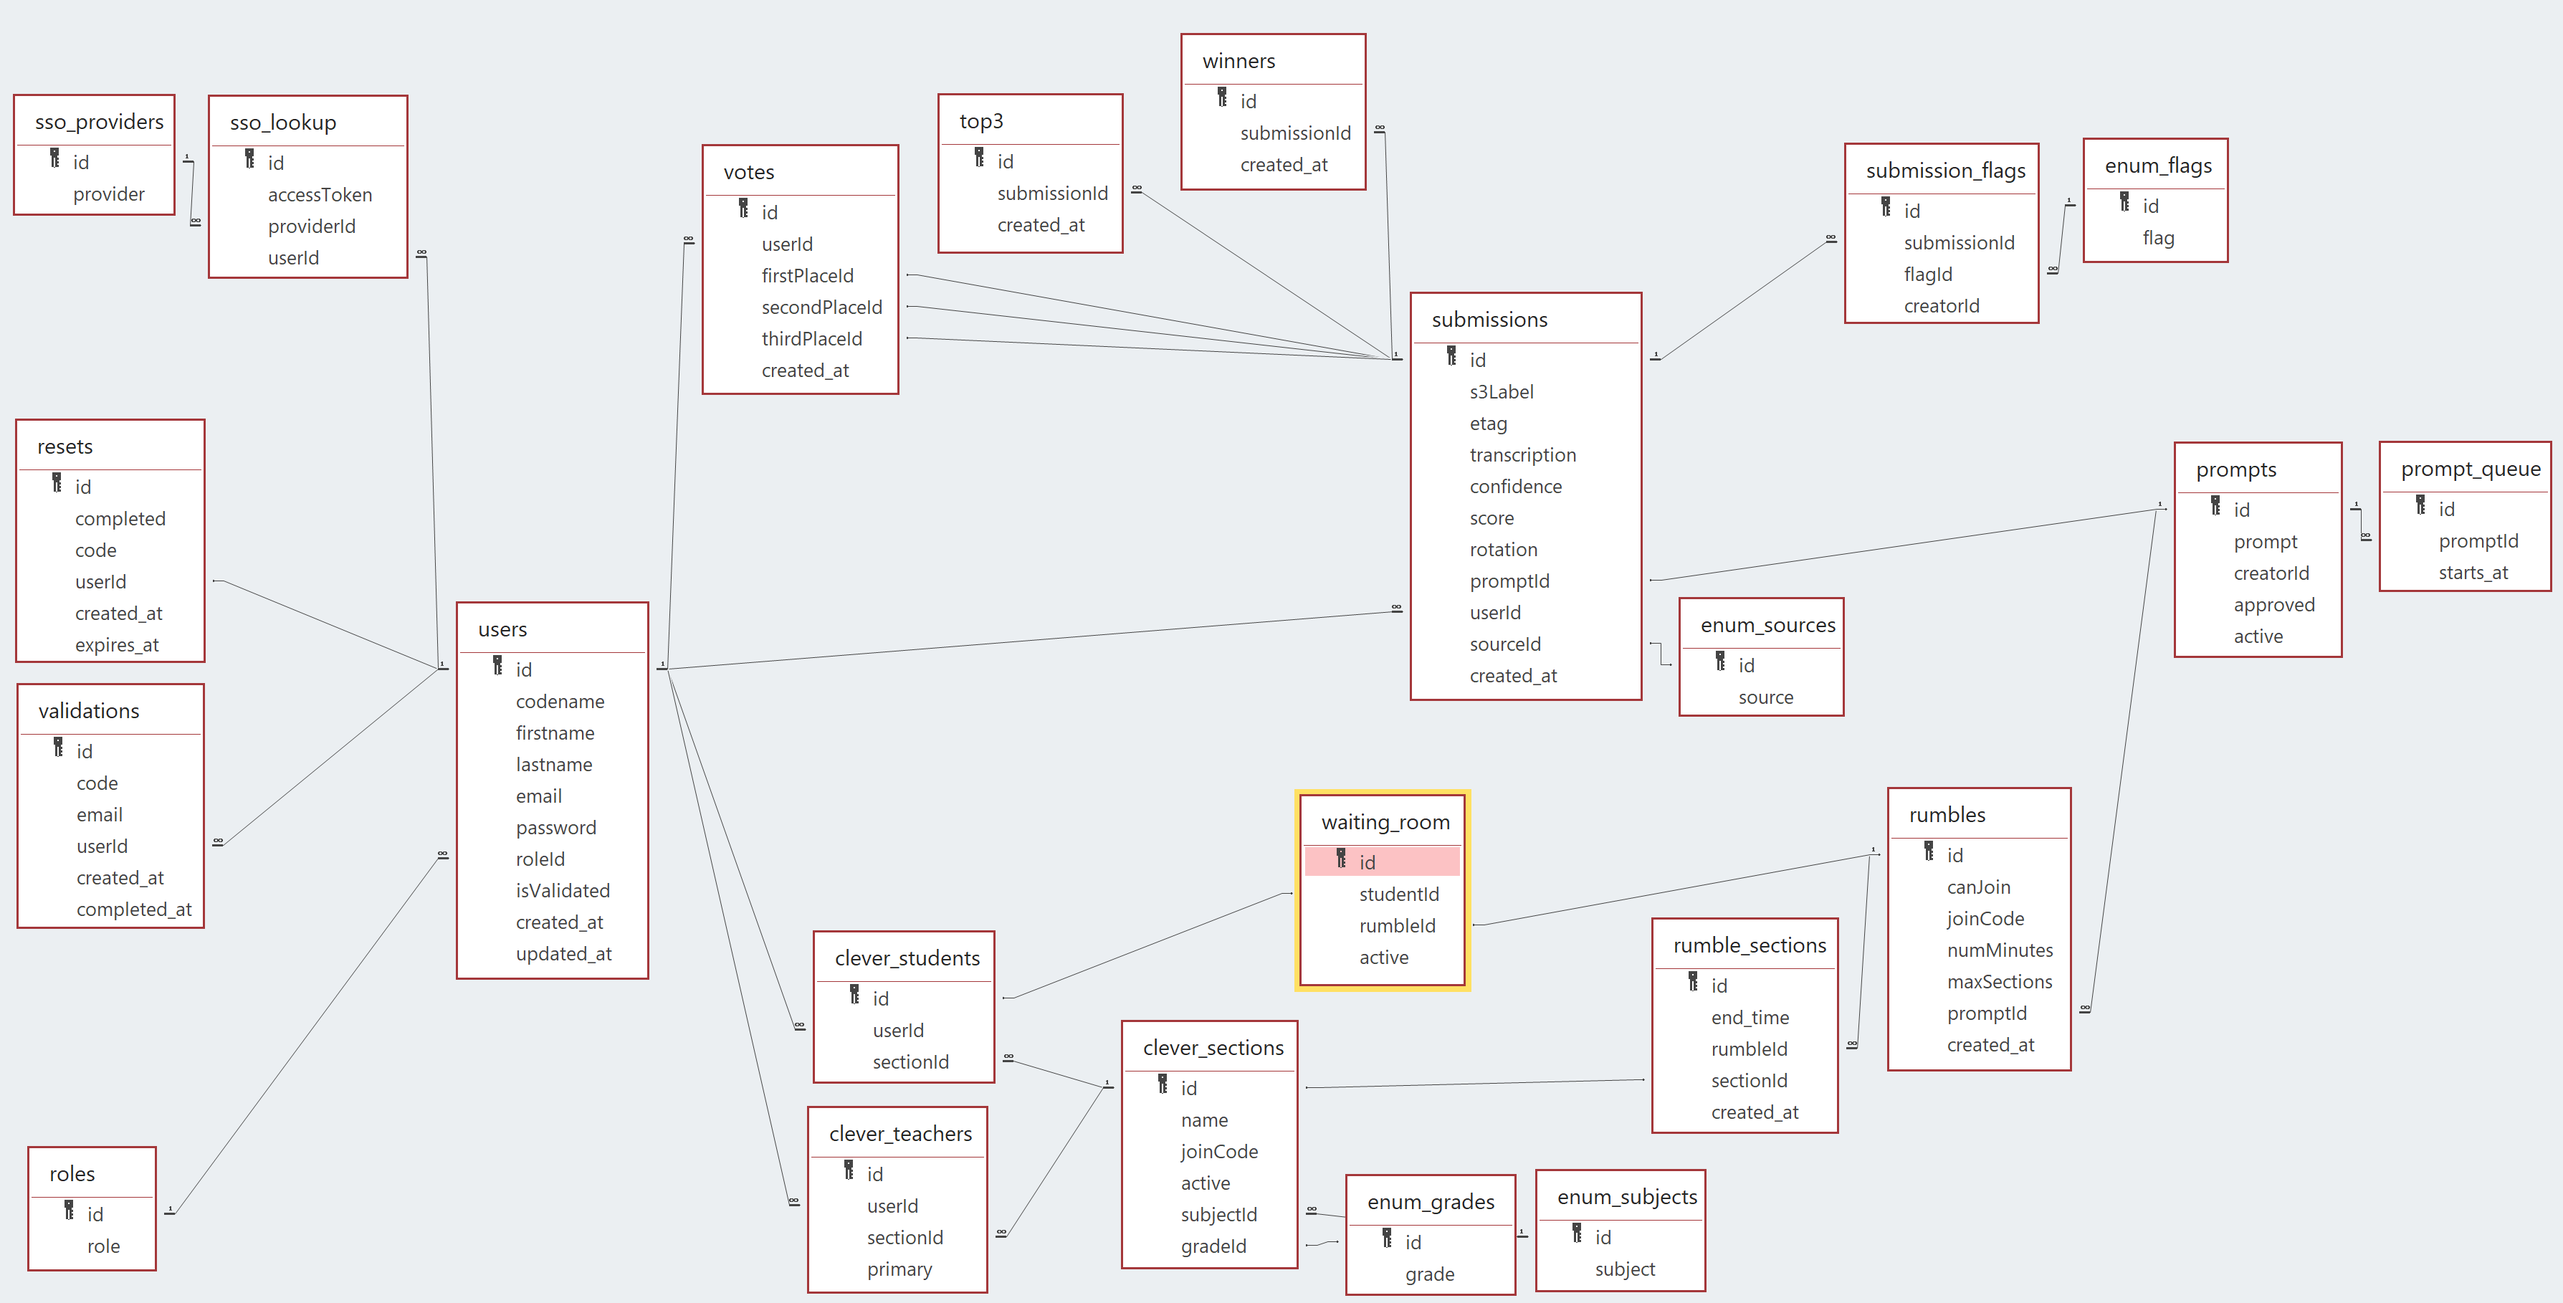
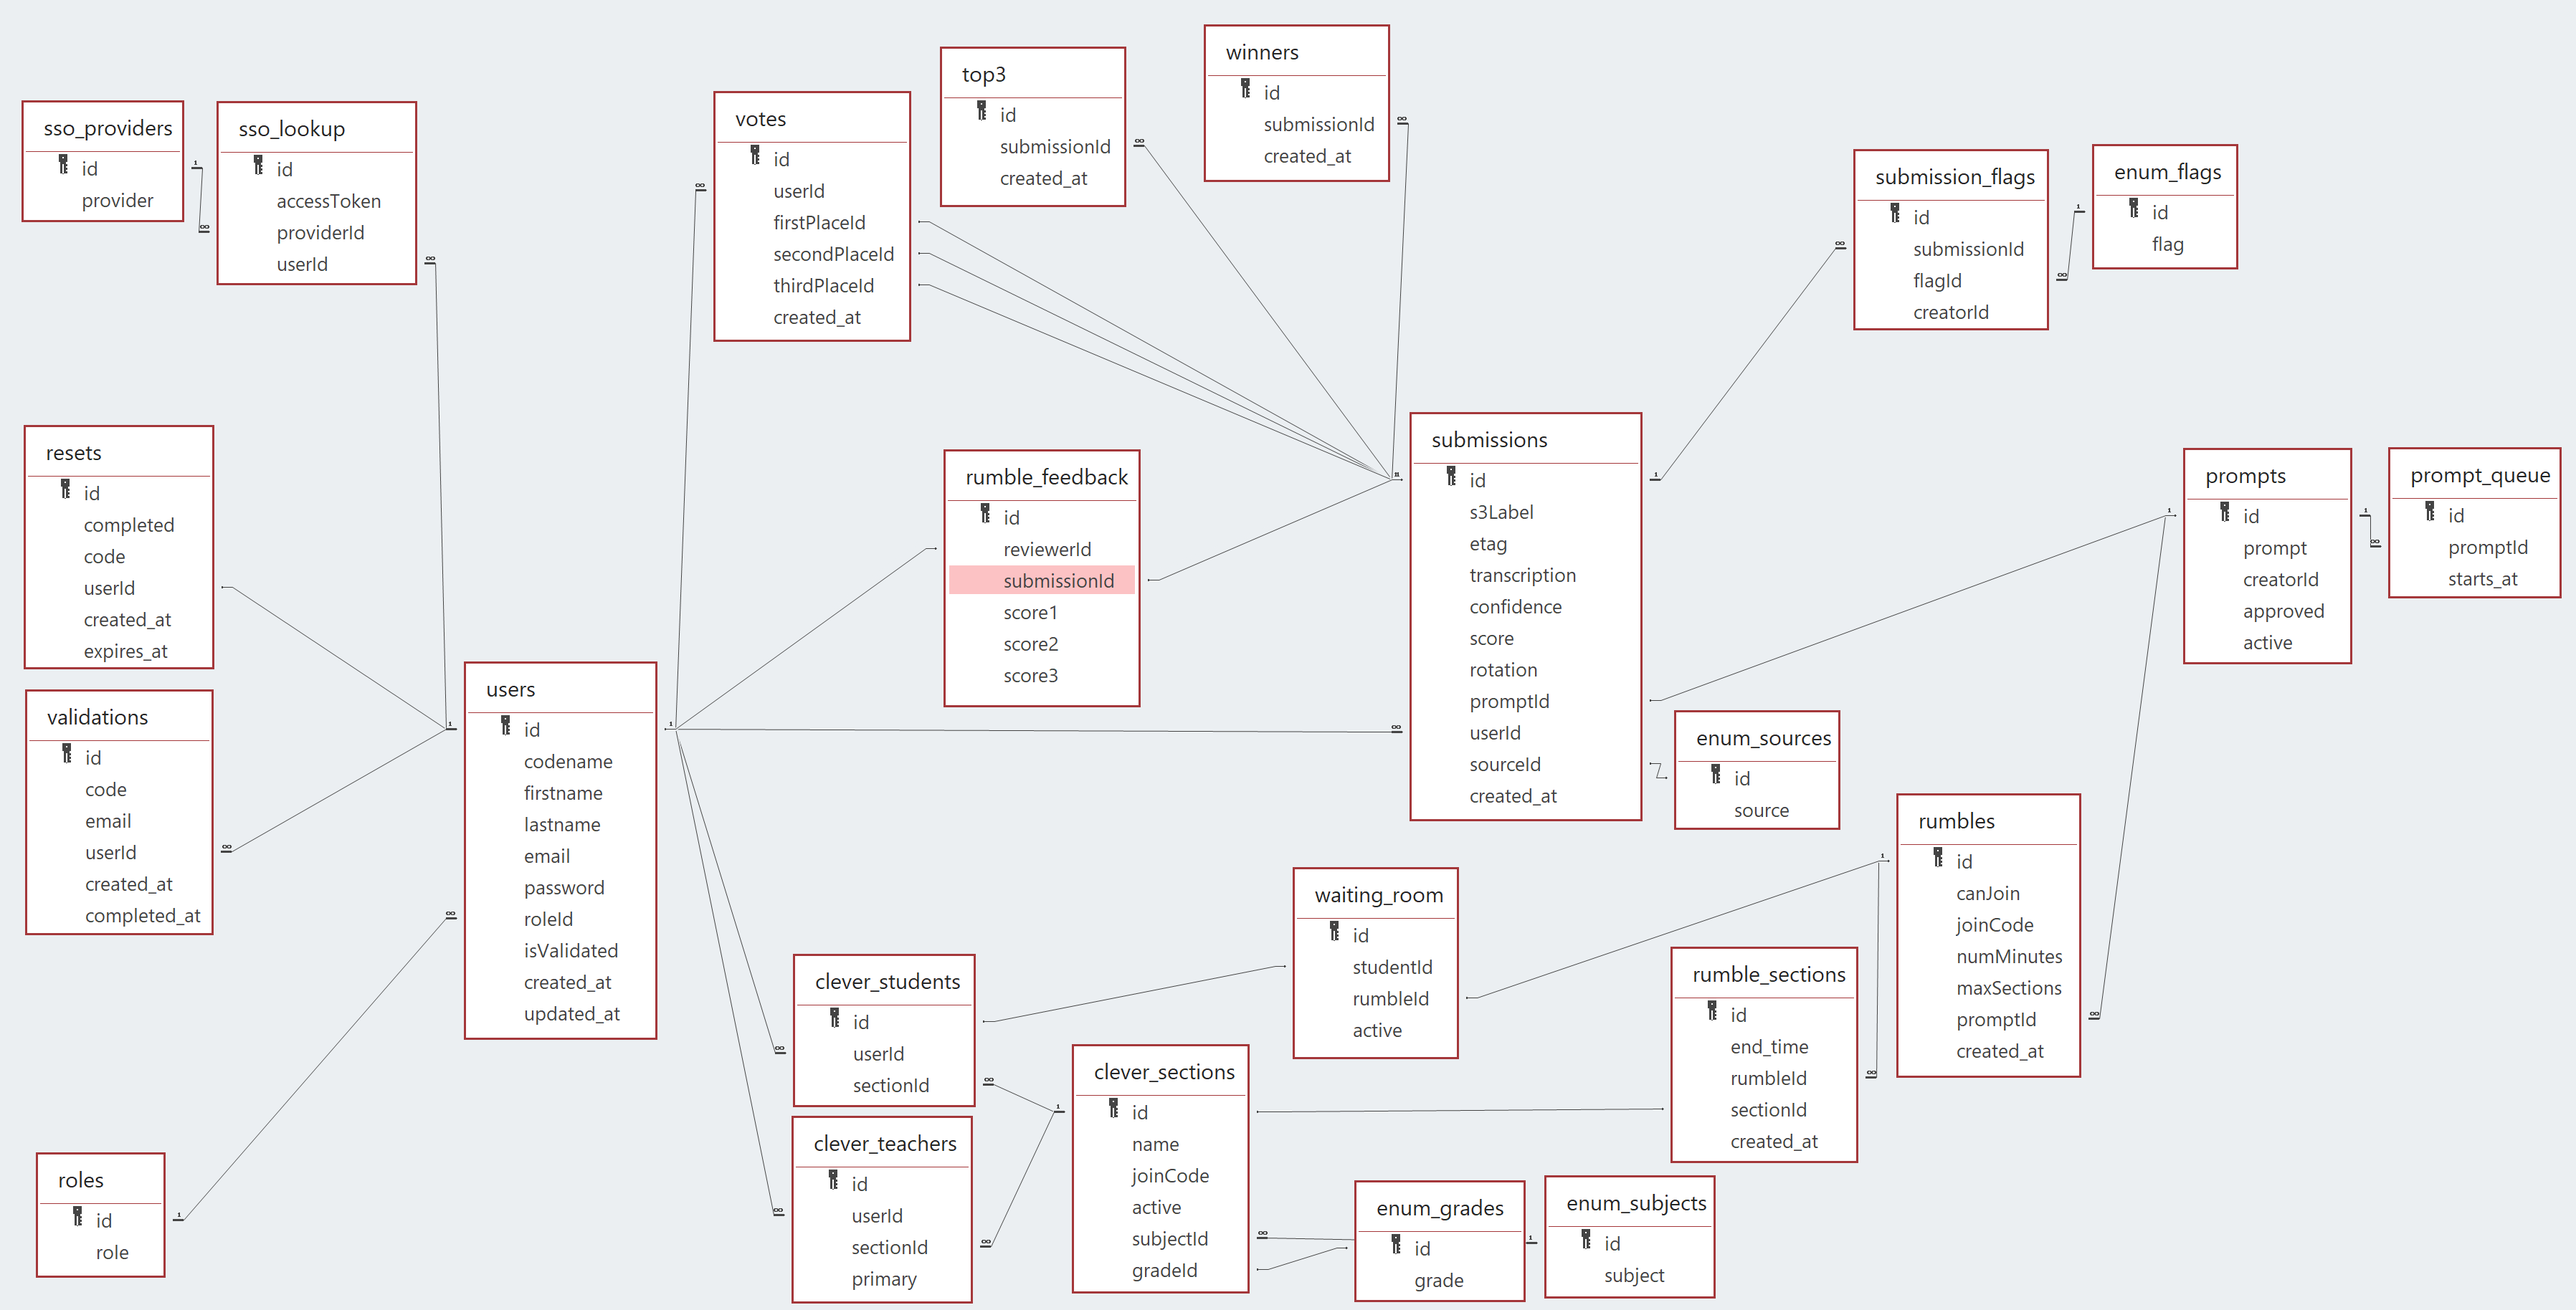
Built structure for api call to get student submissions and updated DB schema once more. Not finished.

diff --git a/src/api/routes/rumble/students.ts b/src/api/routes/rumble/students.ts
@@ -25,5 +25,21 @@ export default (app: IRouter) => {
     }
   );
 
+  route.get(
+    '/:studentId/submissions',
+    authHandler({ roles: [Roles.teacher, Roles.admin] }),
+    async (req, res) => {
+      try {
+        const submissions = await rumbleServiceInstance.getSubmissionsByStudentId(
+          parseInt(req.params.studentId, 10)
+        );
+        res.setStatus(200).json(submissions);
+      } catch (err) {
+        logger.error(err);
+        throw err;
+      }
+    }
+  );
+
   console.log('Rumble students route loaded.');
 };

diff --git a/src/services/rumble.ts b/src/services/rumble.ts
@@ -91,6 +91,17 @@ export default class RumbleService extends BaseService {
     }
   }
 
+  public async getSubmissionsByStudentId(studentId: number) {
+    try {
+      this.logger.debug(
+        `Attempting to retrieve submissions for student with id ${studentId}`
+      );
+    } catch (err) {
+      this.logger.error(err);
+      throw err;
+    }
+  }
+
   public async createSection(body: ISectionPostBody, teacherId: number) {
     try {
       this.logger.debug(
